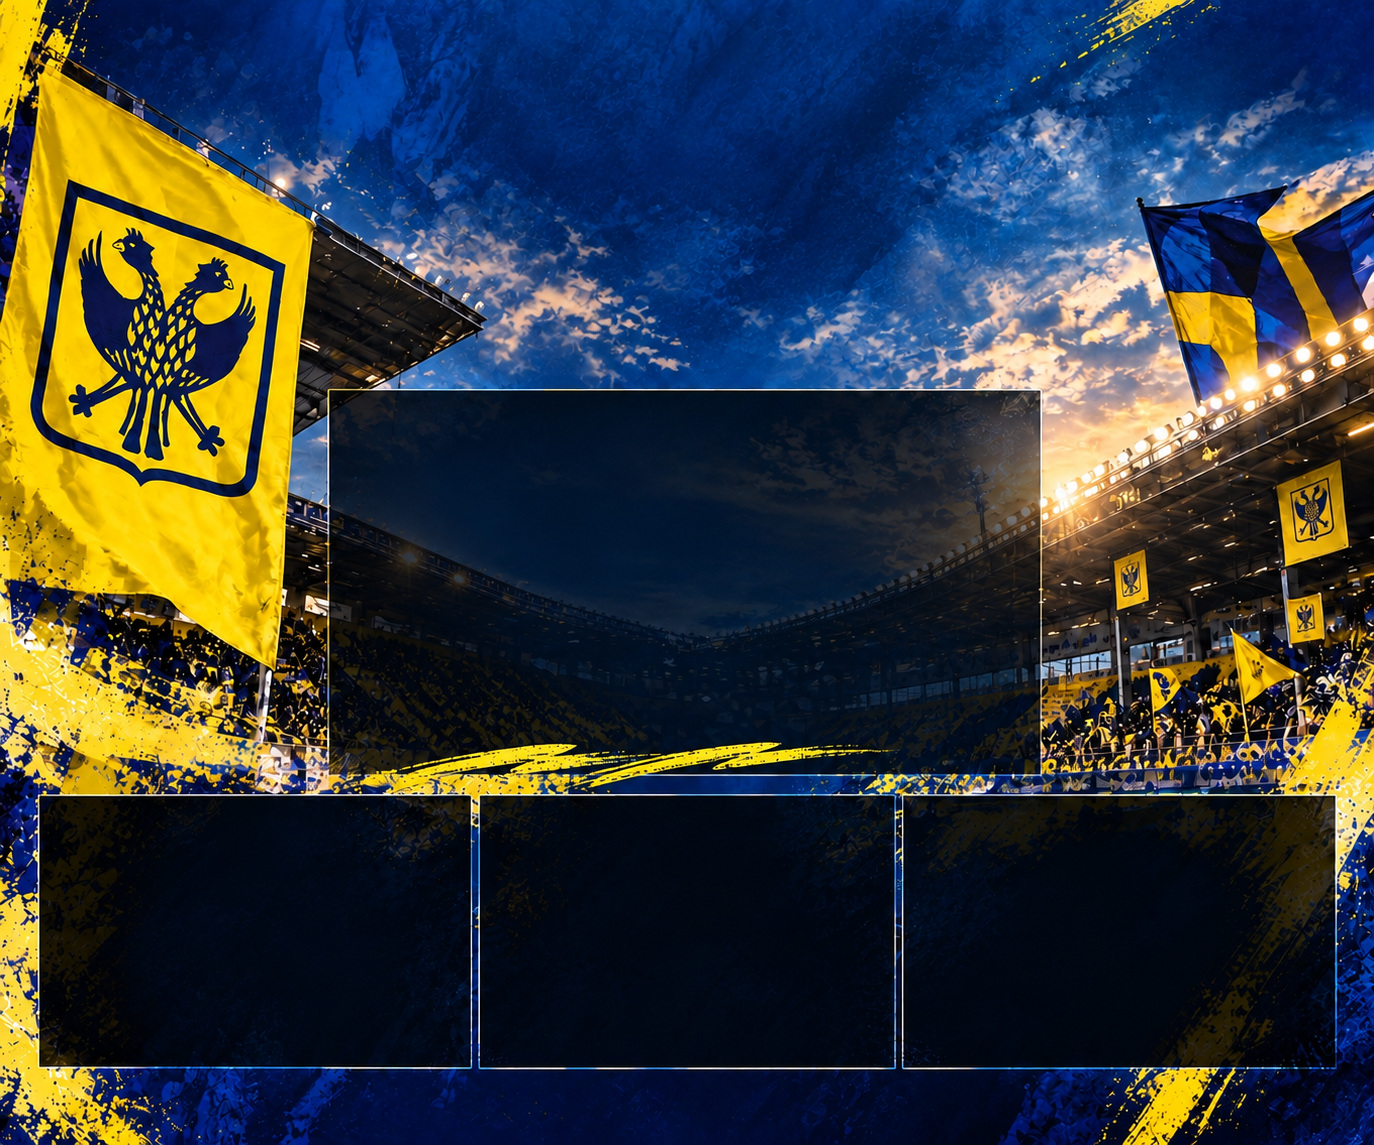
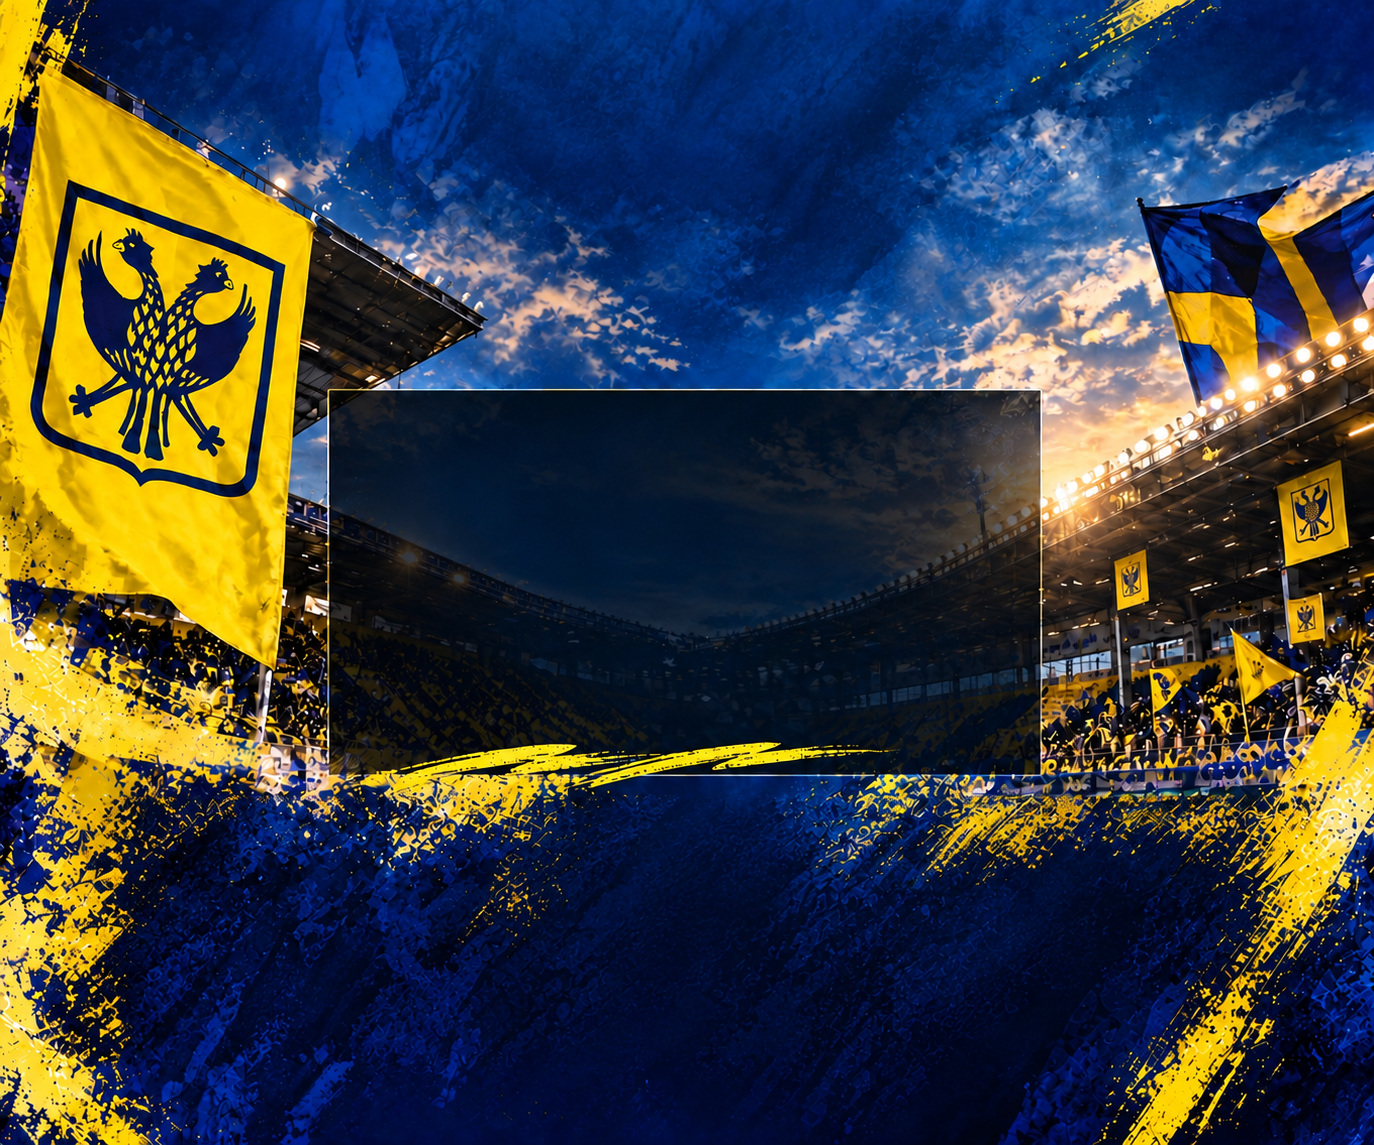
Improve stadium typography and adaptive panels; record per-image layout audits

diff --git a/content_card.py b/content_card.py
@@ -6,6 +6,7 @@ image-generation API, and never invents a score, opponent or statistic.
 import os
 import re
 import random
+import json
 from functools import lru_cache
 from pathlib import Path
 from PIL import Image, ImageDraw, ImageFont
@@ -21,6 +22,12 @@ LABELS = {
 }
 BACKGROUND = ROOT / 'assets/stadium_background.jpg'
 BRUSH = ROOT / 'assets/fonts/PermanentMarker-Regular.ttf'
+TOKENS = re.compile(
+    r'[0-9０-９]+(?:[–−:/.-][0-9０-９]+)*(?:分|本|位|人|%|％)?'
+    r'|[A-Za-z]+(?:[\x27-][A-Za-z]+)*'
+    r'|[ァ-ヺー]+(?:・[ァ-ヺー]+)*|[一-龥々]+|.', re.S)
+LINE_START_PROHIBITED = set('、。，．！？!?：:；;）)]｝}」』】〉》ーっゃゅょぁぃぅぇぉッャュョァィゥェォ')
+LINE_END_PROHIBITED = set('（([｛{「『【〈《')
 
 
 @lru_cache(maxsize=200)
@@ -48,15 +55,60 @@ def wrap(draw, value, face, width):
     result = []
     for paragraph in value.splitlines():
         current = ''
-        for char in paragraph:
-            if current and draw.textlength(current + char, font=face) > width:
-                result.append(current)
-                current = char
+        tokens = TOKENS.findall(paragraph)
+        expanded = []
+        for token in tokens:
+            # Preserve names, words and number/unit pairs whenever they fit.
+            expanded.extend([token] if draw.textlength(token, font=face) <= width else list(token))
+        for token in expanded:
+            if current and draw.textlength(current + token, font=face) > width:
+                if token[0] in LINE_START_PROHIBITED:
+                    # Move the last glyph with the punctuation to the next line.
+                    last = current[-1:]
+                    current = current[:-1]
+                    result.append(current)
+                    current = last + token
+                elif current[-1] in LINE_END_PROHIBITED:
+                    last = current[-1:]
+                    result.append(current[:-1])
+                    current = last + token
+                else:
+                    result.append(current)
+                    current = token
             else:
-                current += char
+                current += token
         if current:
             result.append(current)
     return result
+
+
+def brush_title(draw, value, box, color):
+    x, y, width, height = box
+    for size in range(180, 64, -1):
+        face = font(size, True)
+        bounds = face.getbbox(value)
+        mask = Image.new('L', (bounds[2] - bounds[0] + 12, bounds[3] - bounds[1] + 12), 0)
+        md = ImageDraw.Draw(mask)
+        md.text((6 - bounds[0], 6 - bounds[1]), value, font=face, fill=255)
+        rng = random.Random(value + str(size))
+        for _ in range(mask.width * mask.height // 240):
+            px, py = rng.randrange(mask.width), rng.randrange(mask.height)
+            md.line((px, py, px + rng.randrange(2, 8), py - 1), fill=0)
+        tilted = mask.rotate(4, Image.Resampling.BICUBIC, expand=True)
+        if tilted.width <= width and tilted.height <= height:
+            draw.bitmap((x, y + (height - tilted.height) // 2), tilted, fill=color)
+            return {'font_size': size, 'angle': 4, 'box': list(box)}
+    raise ValueError('Brush heading does not fit')
+
+
+def panel_boxes(groups):
+    values = [value for value in groups if value.strip()]
+    if not values:
+        return []
+    gap, left, available = 18, 42, 1290
+    width = (available - gap * (len(values) - 1)) // len(values)
+    return [(value, (left + index * (width + gap), 807, width, 258))
+            for index, value in enumerate(values)]
 
 
 def fitted(draw, value, box, maximum=64, minimum=22, color=WHITE, brush=False):
@@ -68,7 +120,7 @@ def fitted(draw, value, box, maximum=64, minimum=22, color=WHITE, brush=False):
         lines = wrap(draw, value, face, width)
         # anchor='lt' removes language-dependent ascender offsets.
         step = size + max(4, size // 10)
-        if len(lines) * step <= height:
+        if len(lines) * step <= height and all(draw.textlength(line, font=face) <= width for line in lines):
             for index, line in enumerate(lines):
                 if brush:
                     mask = Image.new('L', (width, step), 0)
@@ -82,7 +134,7 @@ def fitted(draw, value, box, maximum=64, minimum=22, color=WHITE, brush=False):
                 else:
                     draw.text((x, y + index * step), line, font=face,
                               fill=color, anchor='lt', stroke_width=0)
-            return
+            return {'font_size': size, 'lines': lines, 'box': list(box)}
     raise ValueError('Editorial text does not fit; refusing clipped or truncated image')
 
 
@@ -126,24 +178,32 @@ def render_content_card(slot, message, destination, source=None):
             raise ValueError('Approved stadium template dimensions changed')
         im = background.convert('RGB')
     d = ImageDraw.Draw(im)
+    audit = {'schema_version': 1, 'template_version': 2, 'slot': slot,
+             'dimensions': [W, H], 'source': source,
+             'headline': headline, 'score_from_caption': list(match) if match else None,
+             'panels': []}
     fitted(d, 'STVV LAB', (109, 28, 300, 46), 42, 30)
     fitted(d, '非公式ファンメディア', (112, 79, 300, 26), 20, 18)
     first, second = LABELS[slot]
-    fitted(d, first, (395, 12, 755, 170), 155, 65, YELLOW, True)
-    fitted(d, second, (392, 177, 790, 185), 158, 65, WHITE, True)
+    audit['headings'] = [brush_title(d, first, (388, 8, 760, 170), YELLOW),
+                         brush_title(d, second, (382, 169, 790, 193), WHITE)]
     if match:
         own, other, opponent = match
         fitted(d, 'STVV', (365, 424, 290, 65), 52, 30, YELLOW)
         fitted(d, opponent, (755, 425, 250, 88), 43, 23)
         fitted(d, own + '–' + other, (540, 505, 470, 155), 142, 85, YELLOW)
-        fitted(d, headline, (365, 678, 650, 70), 46, 23)
+        audit['headline_layout'] = fitted(d, headline, (365, 678, 650, 70), 46, 23)
     else:
-        fitted(d, headline, (368, 440, 632, 267), 70, 24)
-    for index, value in enumerate(groups):
-        left = 68 + index * 433
-        if value:
-            d.rectangle((left, 823, left + 51, 830), fill=YELLOW)
-            fitted(d, value.replace('、', '、\n'), (left, 854, 371, 194), 40, 22)
+        audit['headline_layout'] = fitted(d, headline, (368, 440, 632, 267), 70, 24)
+    for value, (left, top, width, height) in panel_boxes(groups):
+        plate = Image.new('RGBA', (width, height), (2, 12, 28, 230))
+        pd = ImageDraw.Draw(plate)
+        pd.rectangle((0, 0, width - 1, height - 1), outline=(140, 168, 190, 160), width=2)
+        im.paste(plate, (left, top), plate)
+        d.rectangle((left + 26, top + 25, left + 80, top + 32), fill=YELLOW)
+        details = fitted(d, value.replace('、', '、\n'),
+                         (left + 26, top + 62, width - 52, height - 83), 48, 22)
+        audit['panels'].append({'text': value, **details})
     urls = re.findall(r'https?://[^\s]+', message)
     original = source or (urls[0] if urls else '')
     if original.startswith('https://stvv.jp/'):
@@ -160,4 +220,6 @@ def render_content_card(slot, message, destination, source=None):
         im.save(destination, format='JPEG', quality=94, subsampling=0, optimize=True)
     else:
         im.save(destination, format='PNG', optimize=True)
+    destination.with_suffix('.layout.json').write_text(
+        json.dumps(audit, ensure_ascii=False, indent=2) + '\n', encoding='utf-8')
     return destination

diff --git a/tests/test_content_card.py b/tests/test_content_card.py
@@ -1,9 +1,11 @@
 """Smoke-test all seven Japanese editorial layouts."""
 import tempfile
 import unittest
+import json
 from pathlib import Path
 from PIL import Image
-from content_card import LABELS, render_content_card, story
+from content_card import LABELS, render_content_card, story, wrap, font, panel_boxes
+from PIL import ImageDraw
 
 class ContentCardSmokeTests(unittest.TestCase):
     def test_all_layouts(self):
@@ -49,3 +51,34 @@ class ContentCardSmokeTests(unittest.TestCase):
             self.assertEqual(paths[0].read_bytes(), paths[1].read_bytes())
             with Image.open(paths[0]) as image:
                 self.assertEqual(image.format, 'JPEG')
+
+    def test_no_empty_panels_and_width_adapts_to_content(self):
+        self.assertEqual(panel_boxes(['', '', '']), [])
+        single = panel_boxes(['本文', '', ''])
+        pair = panel_boxes(['本文一', '本文二', ''])
+        self.assertEqual(len(single), 1)
+        self.assertEqual(len(pair), 2)
+        self.assertGreater(single[0][1][2], pair[0][1][2])
+        self.assertLessEqual(pair[-1][1][0] + pair[-1][1][2], 1332)
+
+    def test_quality_audit_contains_real_copy_and_font_sizes(self):
+        with tempfile.TemporaryDirectory() as tmp:
+            output = Path(tmp) / 'audit.jpg'
+            render_content_card('recap', '試合結果\nSTVV 4–1 ロンメル\n松澤海斗、同点ゴール。', output)
+            audit = json.loads(output.with_suffix('.layout.json').read_text())
+            self.assertEqual(audit['template_version'], 2)
+            self.assertEqual(audit['score_from_caption'], ['4', '1', 'ロンメル'])
+            self.assertEqual(len(audit['panels']), 1)
+            self.assertEqual(audit['panels'][0]['text'], '松澤海斗、同点ゴール。')
+            self.assertGreaterEqual(audit['panels'][0]['font_size'], 22)
+
+    def test_japanese_names_and_units_are_not_split_when_they_fit(self):
+        draw = ImageDraw.Draw(Image.new('RGB', (800, 600)))
+        face = font(40)
+        for text in ['松澤海斗、同点ゴール。', 'ソエル・ソエル62分／ムブク71分。', '新川志音、加入後初ゴール。']:
+            rows = wrap(draw, text, face, 360)
+            self.assertEqual(''.join(rows), text)
+            self.assertTrue(all(draw.textlength(row, font=face) <= 360 for row in rows))
+            self.assertFalse(any(row.startswith(('、', '。', 'ー')) for row in rows))
+        rows = wrap(draw, '松澤海斗、同点ゴール。', face, 360)
+        self.assertTrue(any('ゴール' in row for row in rows))

diff --git a/stvv_post.py b/stvv_post.py
@@ -744,6 +744,9 @@ def content_card_media(slot, day, message, source=None):
         git("config", "user.name", "github-actions[bot]")
         git("config", "user.email", "41898282+github-actions[bot]@users.noreply.github.com")
         git("add", "--", str(path))
+        layout = path.with_suffix('.layout.json')
+        if layout.is_file():
+            git("add", "--", str(layout))
         changed = subprocess.run(["git", "diff", "--cached", "--quiet"])
         if changed.returncode == 1:
             git("commit", "-m", f"Create {slot} content card for {day}")

diff --git a/docs/stadium-template.md b/docs/stadium-template.md
@@ -24,3 +24,17 @@ scheduled workflow also runs the tests before allowing a Buffer send.
 This is one reusable composition adapted to each category, not seven separate
 AI illustrations. Only the source data already provided by the posting script
 are visualized; it does not create new player scouting or tactical assessments.
+
+## Quality pass 2
+
+Lower panels are drawn only for actual supplied content, and expand to one,
+two or three columns. Empty decorative columns are no longer baked into the
+background. Japanese wrapping preserves names, katakana terms and number/unit
+pairs when they fit, while avoiding leading punctuation. Brush headers have
+controlled tilt and deterministic wear.
+
+Every output has a `.layout.json` companion recording source text, font sizes,
+line breaks, coordinates and whether a score was present in the caption. The
+posting script commits this audit together with the image; CI also uploads it
+with the preview. This gives each improvement run evidence instead of relying
+on a successful file write as proof of visual quality.
